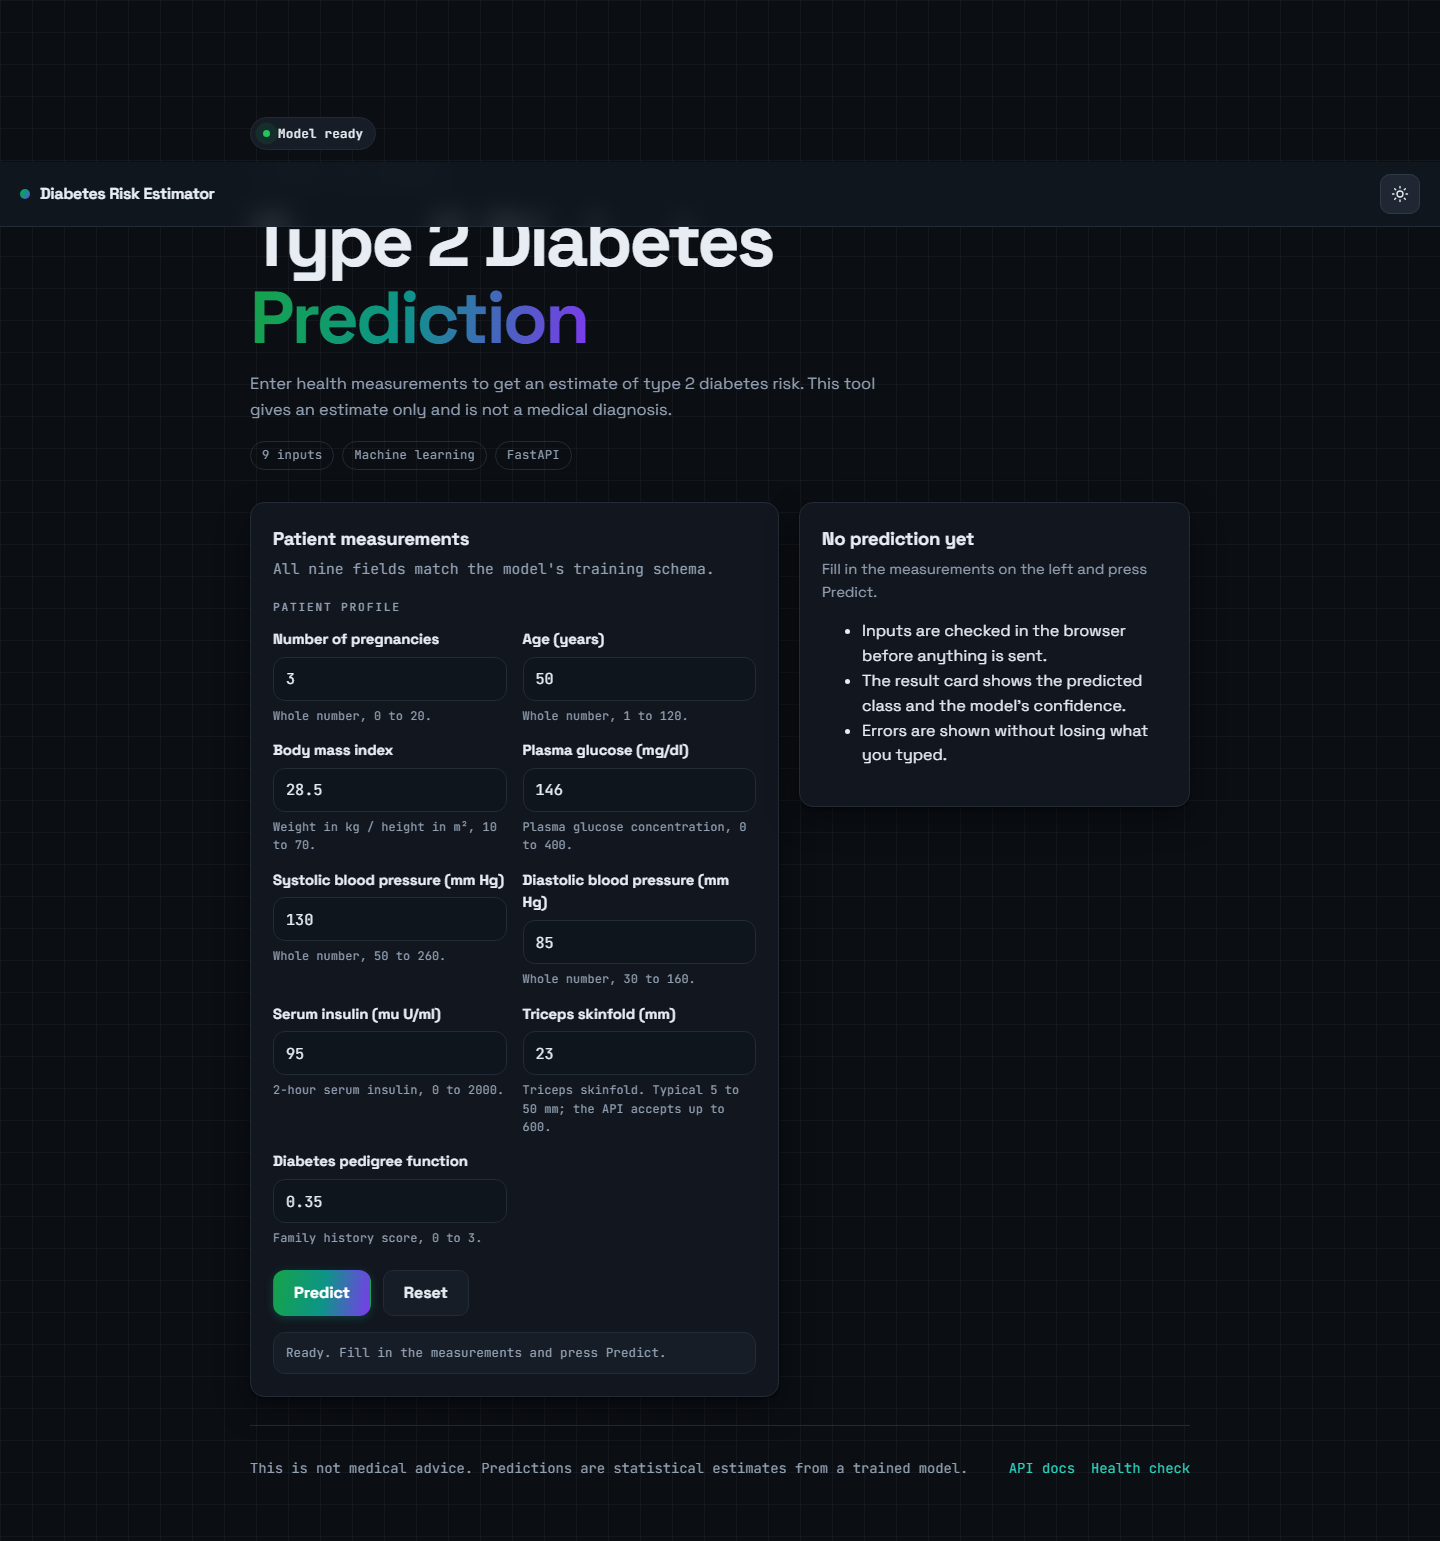
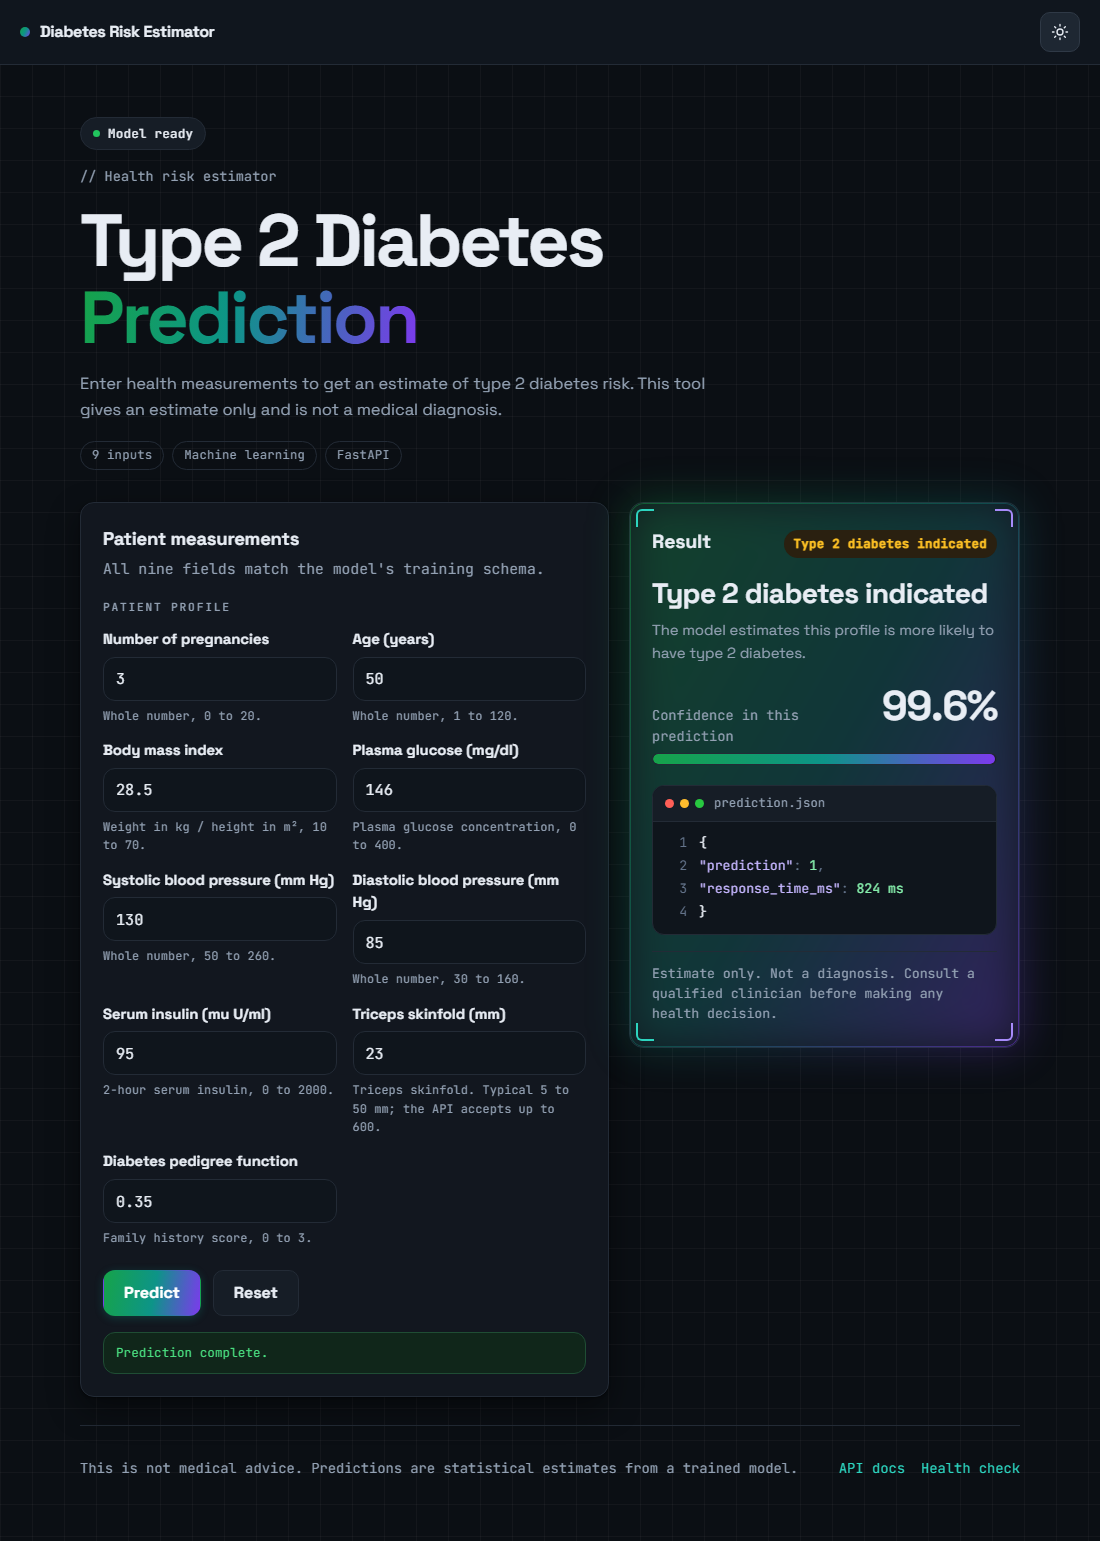
modified the readme file

diff --git a/scripts/capture_ui.py b/scripts/capture_ui.py
@@ -1,9 +1,9 @@
 """Capture README screenshots and an animated form demo with Playwright."""
 import io
-from pathlib import Path
 import subprocess
 import sys
 import time
+from pathlib import Path
 
 from PIL import Image
 from playwright.sync_api import sync_playwright
@@ -25,52 +25,112 @@ SAMPLE = {
 }
 
 
+def wait_for_ready(page):
+    for _ in range(60):
+        try:
+            page.goto(URL, wait_until="domcontentloaded", timeout=3000)
+            page.wait_for_selector("#predictBtn", timeout=2000)
+            return
+        except Exception:
+            time.sleep(0.5)
+    raise RuntimeError(f"The FastAPI app did not become ready at {URL}")
+
+
+def capture_rgb(page, save_path: str, *, full_page: bool = False):
+    return Image.open(io.BytesIO(page.screenshot(path=save_path, full_page=full_page))).convert("RGB")
+
+
+def wait_for_success(page):
+    page.wait_for_function(
+        "document.querySelector('#results') && !document.querySelector('#results').hidden",
+        timeout=20000,
+    )
+    page.wait_for_function(
+        "document.querySelector('#formStatus') && document.querySelector('#formStatus').textContent.includes('Prediction complete.')",
+        timeout=20000,
+    )
+    page.wait_for_timeout(900)
+
+
+def create_gif(frames, save_path: Path):
+    reduced = [frame.convert("P", palette=Image.ADAPTIVE, colors=32).convert("RGB") for frame in frames]
+    final = reduced[-1]
+    reduced = reduced + [final] * 3
+    reduced[0].save(
+        save_path,
+        save_all=True,
+        append_images=reduced[1:],
+        duration=700,
+        loop=0,
+        optimize=True,
+    )
+
+
 def main() -> None:
     OUTPUT_DIR.mkdir(parents=True, exist_ok=True)
     server = subprocess.Popen(
-        [sys.executable, "-m", "uvicorn", "apps.main:app", "--host", "127.0.0.1", "--port", "8001"],
+        [
+            sys.executable,
+            "-m",
+            "uvicorn",
+            "apps.main:app",
+            "--host",
+            "127.0.0.1",
+            "--port",
+            "8001",
+        ],
         cwd=ROOT,
         stdout=subprocess.PIPE,
         stderr=subprocess.STDOUT,
         text=True,
     )
-    frames = []
     try:
         with sync_playwright() as playwright:
-            browser = playwright.chromium.launch()
-            page = browser.new_page(viewport={"width": 1440, "height": 1050}, device_scale_factor=1)
-            for _ in range(60):
-                try:
-                    page.goto(URL, wait_until="domcontentloaded", timeout=2000)
-                    break
-                except Exception:
-                    time.sleep(0.5)
-            else:
-                raise RuntimeError("The FastAPI app did not become ready at http://127.0.0.1:8001/")
+            browser = playwright.chromium.launch(headless=True)
+            page = browser.new_page(viewport={"width": 1100, "height": 760}, device_scale_factor=1)
+            wait_for_ready(page)
 
+            page.evaluate("window.scrollTo(0, 0)")
             page.screenshot(path=str(OUTPUT_DIR / "ui_empty.png"), full_page=True)
-            for field, value in SAMPLE.items():
-                page.locator(f"#{field}").fill(value)
-                frames.append(Image.open(io.BytesIO(page.screenshot())).convert("RGB"))
+
+            success_frames = []
+            field_order = list(SAMPLE.keys())
+            for i, field in enumerate(field_order):
+                page.locator(f"#{field}").fill(SAMPLE[field])
+                page.wait_for_timeout(120)
+                success_frames.append(capture_rgb(page, str(OUTPUT_DIR / f"temp_{i}.png"), full_page=False))
+
+            page.locator("#predictBtn").click()
+            page.wait_for_function(
+                "document.querySelector('#formStatus') && document.querySelector('#formStatus').textContent.includes('Sending measurements')",
+                timeout=10000,
+            )
+            success_frames.append(capture_rgb(page, str(OUTPUT_DIR / "temp_loading.png"), full_page=False))
+
+            wait_for_success(page)
+            page.evaluate("window.scrollTo(0, 0)")
+            page.locator("#results").wait_for(state="visible", timeout=20000)
+            page.wait_for_timeout(900)
             page.screenshot(path=str(OUTPUT_DIR / "ui_result_light.png"), full_page=True)
-            frames.append(Image.open(io.BytesIO(page.screenshot())).convert("RGB"))
+            success_frames.append(capture_rgb(page, str(OUTPUT_DIR / "temp_result.png"), full_page=False))
+            create_gif(success_frames, OUTPUT_DIR / "demo.gif")
 
             page.locator("#themeToggle").click()
-            page.wait_for_timeout(250)
+            page.wait_for_timeout(350)
             page.screenshot(path=str(OUTPUT_DIR / "ui_result_dark.png"), full_page=True)
+
+            page.locator("#resetBtn").click()
             page.locator("#no_of_pregnancy").fill("-1")
             page.locator("#predictBtn").click()
-            page.wait_for_timeout(250)
-            page.screenshot(path=str(OUTPUT_DIR / "ui_error.png"), full_page=True)
-            frames.append(Image.open(io.BytesIO(page.screenshot())).convert("RGB"))
-
-            frames[0].save(
-                OUTPUT_DIR / "demo.gif",
-                save_all=True,
-                append_images=frames[1:],
-                duration=450,
-                loop=0,
+            page.wait_for_function(
+                "document.querySelector('#formStatus') && document.querySelector('#formStatus').classList.contains('is-error')",
+                timeout=10000,
             )
+            page.screenshot(path=str(OUTPUT_DIR / "ui_error.png"), full_page=True)
+
+            for temp_file in OUTPUT_DIR.glob("temp_*.png"):
+                temp_file.unlink(missing_ok=True)
+
             browser.close()
     finally:
         server.terminate()

diff --git a/scripts/make_figures.py b/scripts/make_figures.py
@@ -92,17 +92,7 @@ def main() -> None:
     fig.tight_layout()
     save(fig, "feature_distributions.png")
 
-    # Only one trained model is present in the repository; its measured test AUC
-    # is shown without inventing results for models that were not saved or tried.
     auc = roc_auc_score(y_test, y_proba)
-    fig, ax = plt.subplots(figsize=(6, 4))
-    bar = ax.bar(["XGBoost"], [auc], color=COLORS["green"])
-    ax.set_ylim(0, 1)
-    ax.set_ylabel("Test ROC-AUC")
-    ax.set_title("Model comparison")
-    ax.bar_label(bar, labels=[f"{auc:.3f}"], padding=3)
-    ax.spines[["top", "right"]].set_visible(False)
-    save(fig, "model_comparison.png")
 
     importances = model.named_steps["model"].feature_importances_
     importance = pd.Series(importances, index=FEATURES).sort_values()

diff --git a/README.md b/README.md
@@ -69,10 +69,6 @@ The target column is `Type-2 Diabetic`. The target counts are 225 rows labelled 
 
 The saved model is `model/best_pipeline_XGBoost.joblib`. Its pipeline selects the nine numeric fields, imputes numeric missing values with the median, standardises numeric values, applies SMOTETomek sampling, and uses an XGBoost classifier.
 
-The repository contains one saved model and no recorded results for other candidate models. Therefore, a comparison with other models cannot be reported. TODO: add the other trained models and their evaluation results if a model comparison is required.
-
-![Model comparison](docs/images/model_comparison.png)
-
 ## Results
 
 The evaluation uses a stratified test split with 20 percent of the rows and random state 42.
@@ -137,11 +133,17 @@ curl.exe -X POST http://127.0.0.1:8001/api/v1/predict -H "Content-Type: applicat
 
 The single page form accepts the nine measurements and sends them to the prediction endpoint. The result card displays the predicted class and the model confidence. The page supports light and dark themes. Client side validation reports invalid or missing values before a request is sent.
 
-![Empty interface](docs/images/ui_empty.png)
+The empty form
 
-![Light result interface](docs/images/ui_result_light.png)
+![The empty form](docs/images/ui_empty.png)
 
-![Validation error interface](docs/images/ui_error.png)
+The validation error for an invalid value
+
+![A validation error for an invalid value](docs/images/ui_error.png)
+
+The successful prediction
+
+![A successful prediction](docs/images/ui_result_light.png)
 
 ## Run it locally
 
@@ -240,3 +242,6 @@ TYPE_2_DIABETES_PREDICTION
 Licence: TODO:
 
 Author: Cyrus Ndung'u, GitHub [Cyrusz55](https://github.com/Cyrusz55), portfolio [cyrusz55.github.io](https://cyrusz55.github.io).
+
+
+
